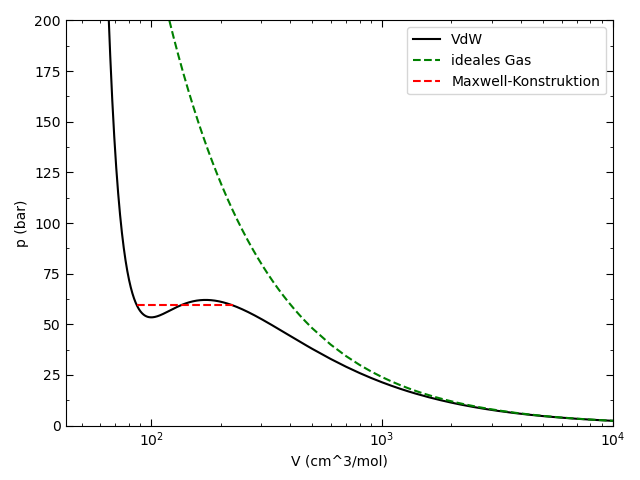
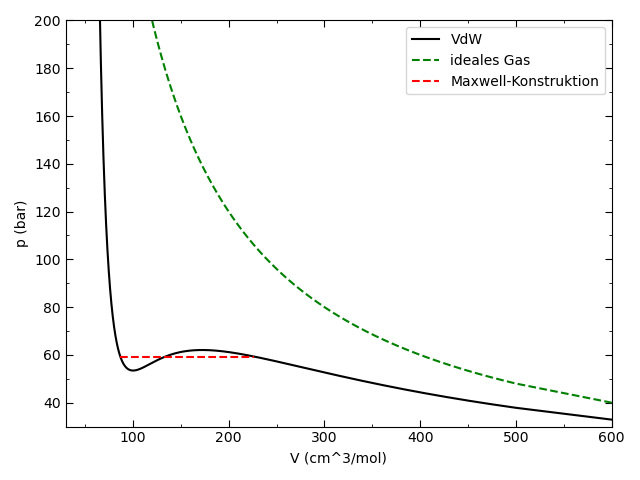
C31 HA

diff --git a/31/Evaluation/HA.py b/31/Evaluation/HA.py
@@ -67,11 +67,12 @@ plt.hlines(p0, V1, V2, colors='red', linestyles='dashed', label='Maxwell-Konstru
 plt.tick_params(axis='both', which='minor', direction='in', right=True, top=True)
 plt.tick_params(axis='both', which='major', direction='in', right=True, top=True, length=5)
 plt.gca().yaxis.set_minor_locator(AutoMinorLocator(2))
-plt.xscale('log')
+plt.gca().xaxis.set_minor_locator(AutoMinorLocator(2))
+
 plt.xlabel('V (cm^3/mol)')
 plt.ylabel('p (bar)')
-plt.ylim(0,200)
-plt.xlim(b, 1e4)
+plt.xlim(30,600)
+plt.ylim(30, 200)
 plt.legend()
 plt.tight_layout()
 plt.savefig(img_path / 'HA_VdW_Maxwell.png')

diff --git a/31/Tex/main.tex b/31/Tex/main.tex
@@ -73,7 +73,8 @@
 \section{Experiment}
 \section{Zusammnfassung}
 \section{Anhang}
-	
+    \color{blue}{HIER NOCH RECHNUNG UND HERLEITUNG REIN}
+    Die Isotherme für C02 dargestellt:
 	
 \begin{thebibliography}{}    %so wird das Literaturverzeicnis erstellt
 \bibitem{BipBop}
